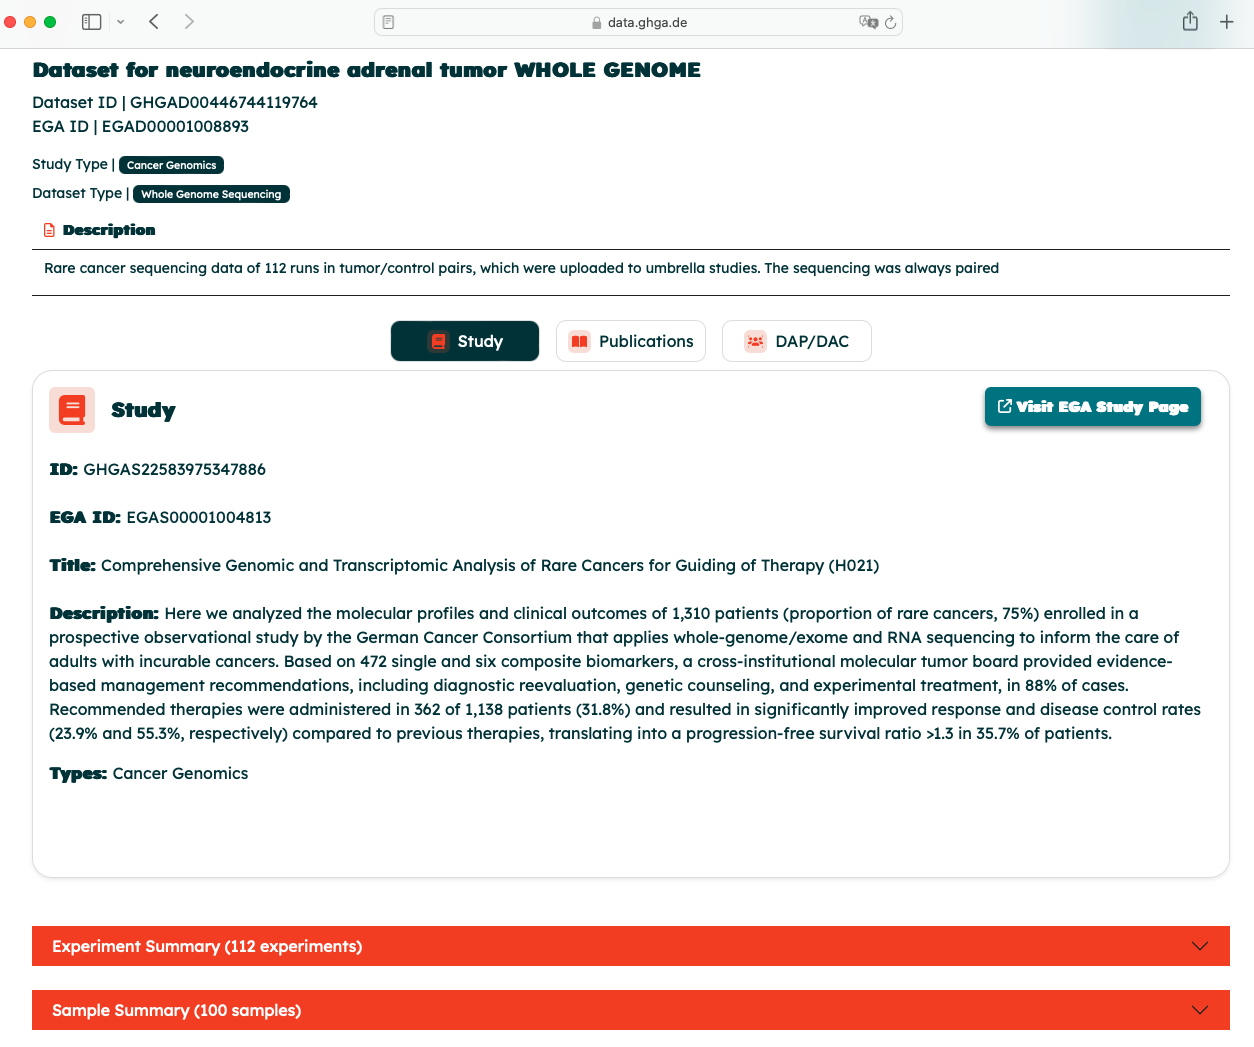
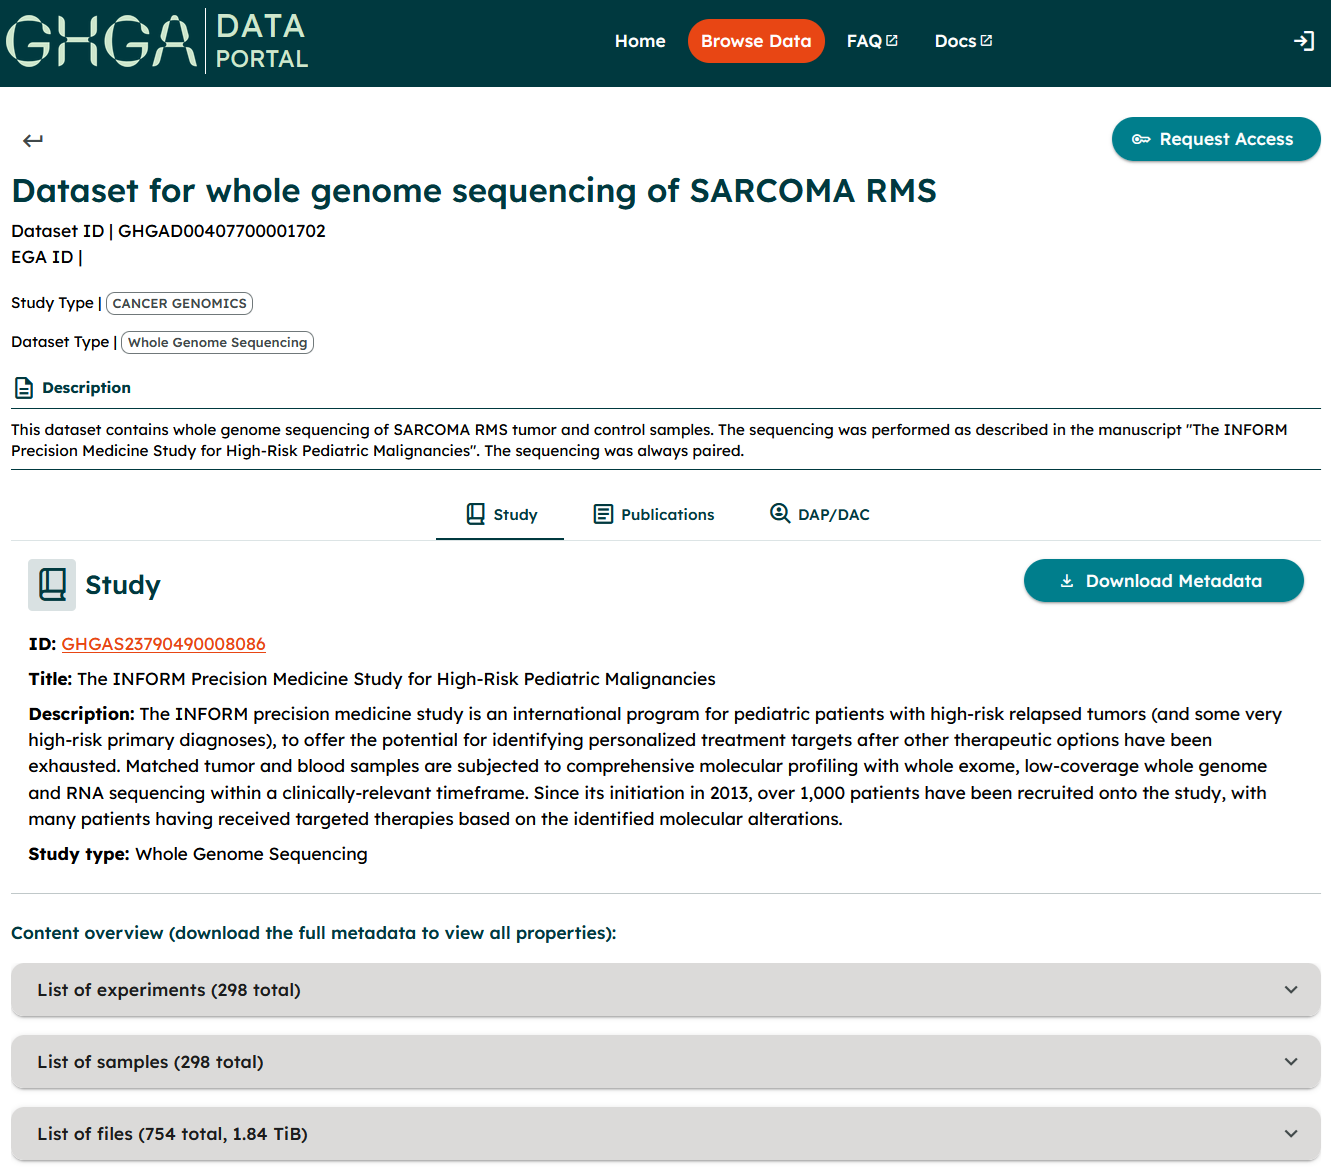
Reworked browsing data user story with up-to-date figures (#98)

diff --git a/user_docs/user_stories/browsing_data.md b/user_docs/user_stories/browsing_data.md
@@ -1,34 +1,56 @@
 # Browsing Data
 
-The GHGA Data Portal is a secure national infrastructure for human omics data available under controlled access. To browse data, please visit the GHGA Data Portal at [data.ghga.de/](https://data.ghga.de/) and got to the ["Browse" page.](https://data.ghga.de/browse).
+The GHGA Data Portal is a secure national infrastructure for human omics data available under controlled access. To browse data, please visit the GHGA Data Portal at [data.ghga.de](https://data.ghga.de/) and go to the ["Browse" page](https://data.ghga.de/browse).
 
-## Views
-### Overview
-The first view shows you an overview of all available datasets on GHGA.
+!!! note "No account required"
+    Browsing and searching datasets on the GHGA Data Portal is open to everyone and does not require a <general:LS ID|Life Science Login> or registration. An account is only needed once you want to [request access](accessing_data.md) to a dataset.
 
-#### Filtering
-- On the left various filter options are available to filter for desired properties of datasets.
-    - Select filters and click "Filter" on the bottom-left to apply the filters to the list of datasets shown on the right.
-    - This will lead to a reduced number of datasets shown in the listing on the right. Filters can be removed by just clicking the "x" on the applied filters on the top of the list.
+![Screenshot of the unfiltered GHGA Data Portal Browse page, showing the dataset list, keyword search field, and collapsible filter categories on the left.](../assets/img/browse_page.png)
 
-    ![Screenshot of GHGA Data Portal showing filter selection and application, as described in the text above.](../assets/img/filter_view.png)
+## Finding Datasets
 
+The Browse page lists all datasets currently available on GHGA. Two complementary tools help you narrow this list down to the datasets you're interested in: keyword search and filters. The total number of matching datasets is always shown at the top-right of the page ("Total Datasets").
 
-#### Dataset details overview
-- To see more details of a dataset, just click on the list item. An extended view of this dataset will appear:
+### Keyword Search
+
+Use the "Enter any search terms" field above the filters to search for datasets by keyword, e.g. a study title or disease. Keyword search can be combined with the filters described below.
+
+### Filtering
+
+Filters are grouped into categories on the left, such as Study Type, Platform, Experiment, Analysis Level, Sequencing Mode, Diagnosis, Access Policy, and Controller Institution. Click a category to expand it and reveal its checkbox options, each annotated with the number of matching datasets.
+
+- Select one or more checkboxes to apply that filter. The dataset list updates immediately, and each applied filter appears as a removable chip below the filter categories.
+- Applied filters can be removed individually by clicking the "x" on their chip.
+
+![Screenshot of GHGA Data Portal showing filter selection and application, as described in the text above.](../assets/img/filter_view.png)
+
+## Dataset Preview
+
+Click on any dataset in the list to open a preview with a short description and summary information:
+
 ![Screenshot of extended dataset view in GHGA Data Portal, showing access options and file summary – as described in the surrounding text.](../assets/img/dataset_details_overview.png)
-- The following functionalities can be accessed from that page:
-    - "EGA Dataset": In case the dataset is in addition listed on the [EGA-Archive](https://ega-archive.org/), this will open a new tab with the corresponding dataset detail page on EGA.
-    - " Request Access": In case you would like to use this dataset, this button opens (after login) a form to request access to the dataset. See [Accessing Data](accessing_data.md) for further details.
-    - "Dataset details" opens a detailed view of the dataset, see below.
 
-### Dataset details
-- Once you have clicked on the "Dataset details in the [Overview](#overview), you will be forwarded to the Dataset details view. This view contains further information on the datasets metadata e.g.:
-    - Study description
-    - Linked publications
-    - Data Access Details
-    - Experiment Summary
-    - Sample Summary
-    - File Summary
-- Details on the nature of these fields are described in the [documentation on the Metadata Model](../metadata/overview.md) used.
+From this preview, the following actions are available:
+
+- **EGA Dataset** – shown only if the dataset is also listed on the <general:European Genome-phenome Archive (EGA)|EGA Archive>; opens the corresponding dataset page on EGA in a new tab.
+- **Request Access** – opens (after login) a form to request access to the dataset. See [Accessing Data](accessing_data.md) for further details.
+- **Dataset Details** – opens the full [Dataset Details](#dataset-details) view described below.
+
+## Dataset Details
+
+Clicking "Dataset Details" in the [dataset preview](#dataset-preview) opens the full metadata view for that dataset, organised into Study, Publications, and DAP/DAC tabs, plus an expandable content overview. This view includes:
+
+- Study description (Study tab)
+- Linked publications (Publications tab)
+- Data Access Details (DAP/DAC tab)
+- List of experiments
+- List of samples
+- List of files, including the total file size
+
+A "Download Metadata" button lets you download the complete metadata for the dataset. The meaning of the individual fields is explained in the [Metadata Model documentation](../metadata/overview.md).
+
 ![Screenshot of dataset details view in GHGA Data Portal, showing further information on dataset metadata – as described in the text above.](../assets/img/detail_view.png)
+
+## Next Steps
+
+Found a dataset you'd like to use? Continue to [Accessing Data](accessing_data.md) to learn how to request access and, once approved, download the files.
